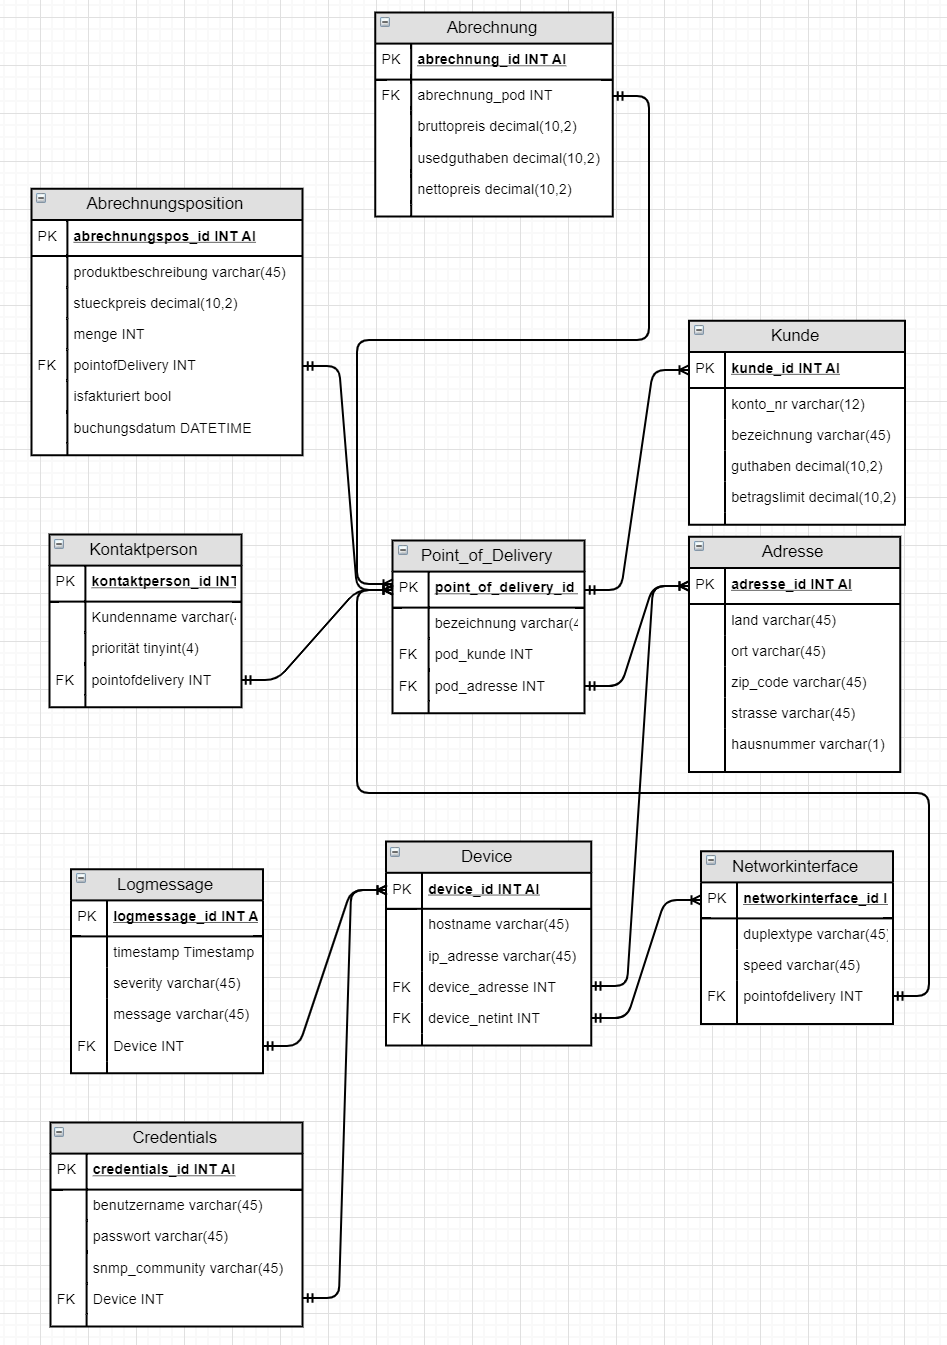
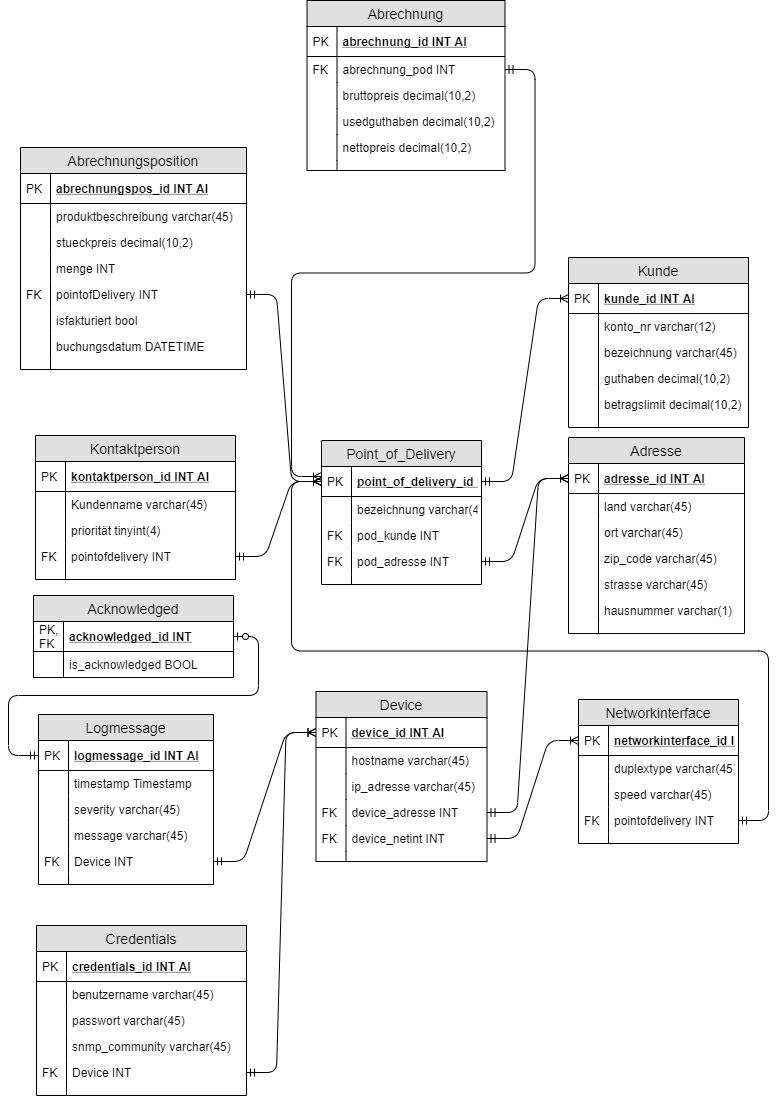
Monitoring (#10)
* Added stored procedure 'LogMessageAdd'

* Added view v_logentries

* beide neuen sql skripts dokumentiert

* Tested and completed monitoring script

* fixed and tested logmessageadd.sql

* fixed some errors in the readme

* removed v_logentries.sql, because it was moved to monitoring.sql

* Umsetzung Feedback von Adrian

diff --git a/README.md b/README.md
@@ -77,10 +77,19 @@ In diesem Kapitel beschreiben wir die Erstellung und Manipulation der Datenbank 
 
 [Manipulation (DML)](./dml.sql)
 
+[LogMessageAdd](./LogMessageAdd.sql)
+
+Die Stored Procedure `LogMessageAdd` fügt neue Log-Einträge zum entsprechenden Device hinzu.
+
+[v_logentries](./monitoring.sql)
+
+Mit der View `v_logentries` kann unser Monitoring-System die nicht-quittierten Logs anzeigen.
+Für die View wurde ausserdem eine neue Tabelle `acknowledged` angelegt, welche den Status des Monitoring pro Logmessage überprüft.
+Die View zeigt auch logmessages an, für die es in `acknowledged` keinen Eintrag gibt.
+
 [Manuelle Fakturierung](./manuelleFakturierung.sql)
 
 In dieser Stored Procedure wird die Abrechnung getätigt. Bei der Abrechnung wird das vorhandene Guthaben des Kunden berücksichtigt und falls vorhanden in der Abrechnung vermerkt. Die abgerechneten Abrechnungspositionen werden mit einem Flag isfaktueriert markiert. Die manuelle Fakturierung erfolgt mit dem Aufruf der Stored Procedure PodBill unter Beigabe der Id des Pod's. 
-
 
 [Automatische Fakturierung](./AutomatischeFakturierung.sql)
 
@@ -94,9 +103,11 @@ Wann | Was | Dauer [h]
 15.09.2019 | Definition DML | 2
 15.09.2019 | Dokumentation | 1
 24.01.2020 | Aufsetzen des GitHub-Repository | 1.5
+30.01.2020 | LogMessageAdd hinzugefügt | 1
+30.01.2020 | v_logentries hinzugefügt | 1.5
 30.01.2020 | Stored Procedure PodBill | 2
 30.01.2020 | Automatische Fakturierung | 2
 03.02.2020 | ERM angepasst | 1
 03.02.2020 | Dokumentation Fakturierung | 1
 03.02.2020 | DML angepasst | 1
-
+17.02.2020 | Monitoring.sql korrigiert | 0.5
